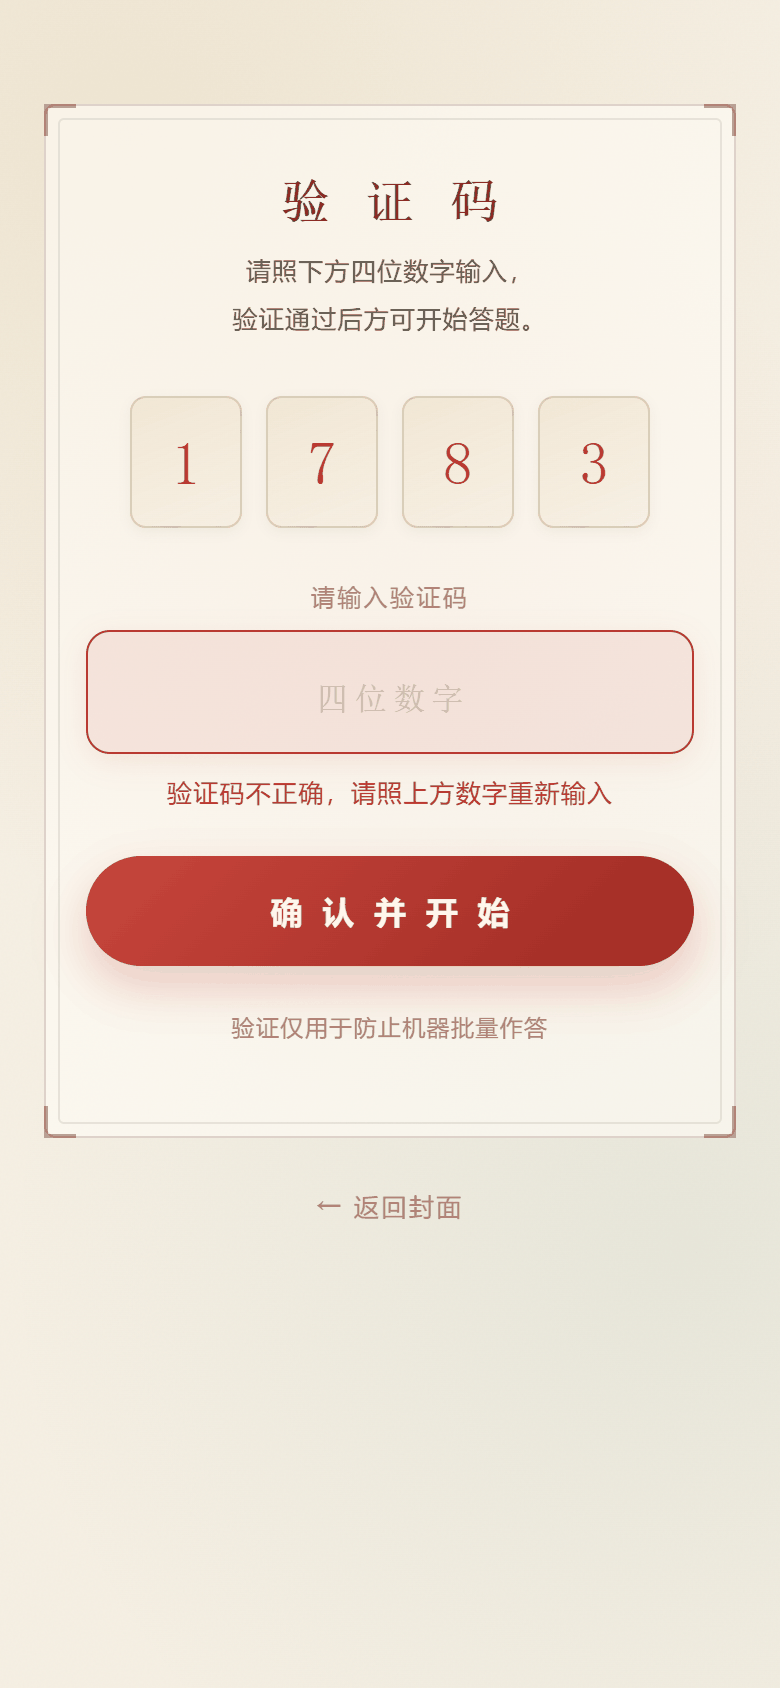
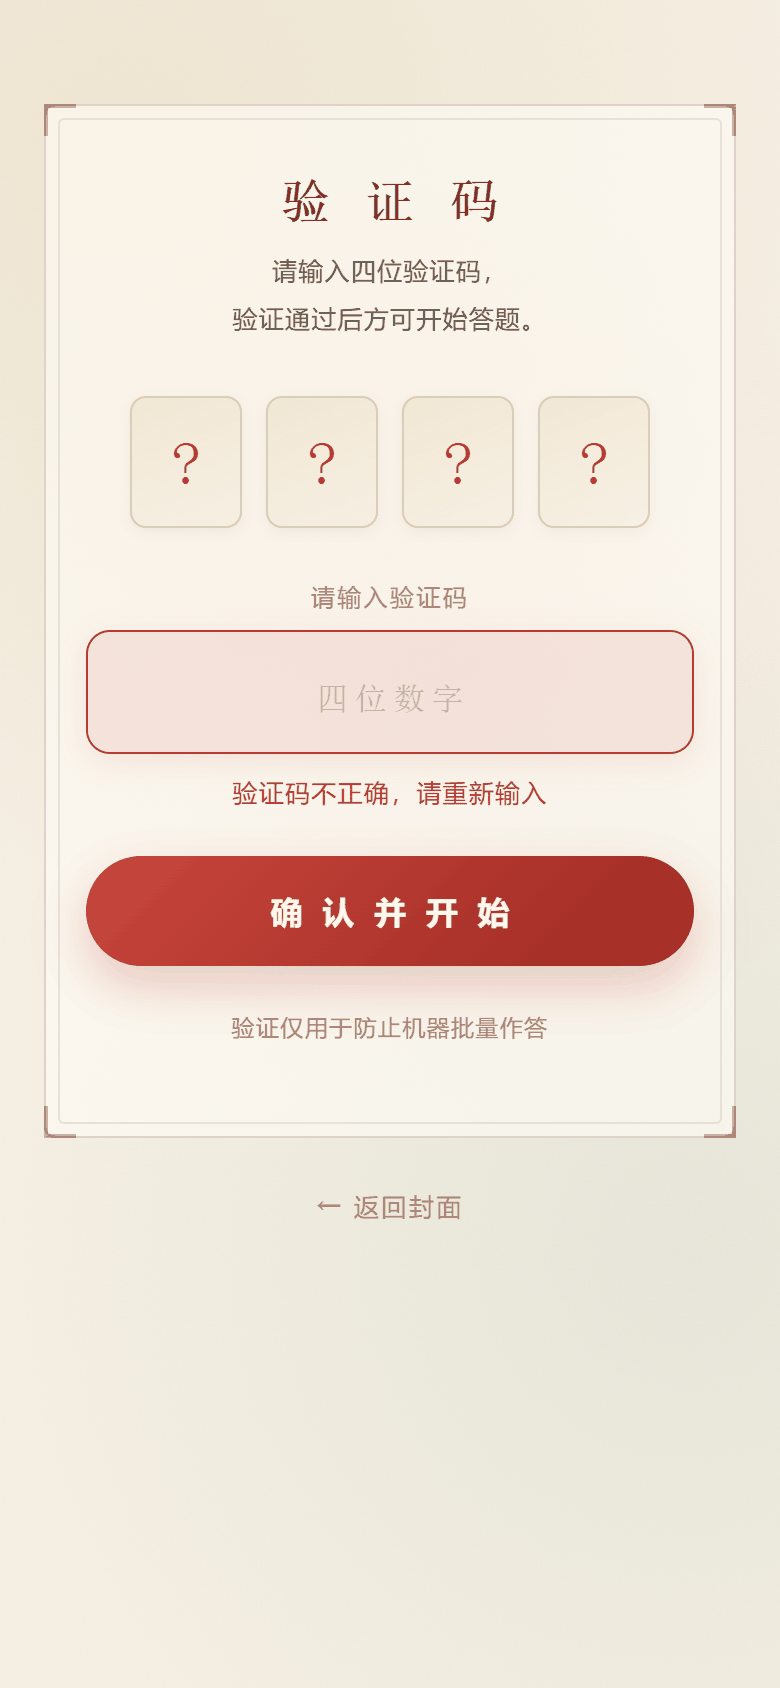
refactor: 移除历史答题记录模块 · 验证码不再显示在页面上
- 删除结果页「我的历史答题记录」区块、配套 CSS、HISTORY 存档数据
  与 renderHistory/paintHistory/makeRecord 等全部逻辑
  （index.html 68.6KB → 62.6KB，el() 引用无悬空）
- 验证码改为不展示：四位数字格只渲染 "?" 占位引导，
  真值仅存在于 JS 常量 CAPTCHA_CODE，页面可见文本中不再出现
- 同步修正错误提示文案（去掉"照上方数字"）与副标题
- README 与预览图更新（删除历史记录相关截图，新增结果页下半部分）

diff --git a/index.html b/index.html
@@ -393,41 +393,6 @@ body{
   margin-top:20px;text-align:center;font-size:11.5px;color:var(--ink3);
   letter-spacing:.06em;line-height:1.9;
 }
-
-/* ============ 历史答题记录 ============ */
-.hist-list{display:flex;flex-direction:column;gap:0;}
-.hist-row{
-  display:flex;align-items:center;gap:12px;
-  padding:12px 2px;border-bottom:1px dashed var(--line);
-  animation:fadeIn .4s ease both;
-}
-.hist-row:last-child{border-bottom:0;}
-.hist-seal{
-  flex:0 0 34px;height:34px;border-radius:50%;
-  display:grid;place-items:center;
-  font-family:var(--serif);font-size:15px;color:#FFF6EC;
-  background:linear-gradient(148deg,#C8463C,#9E2A23);
-  box-shadow:0 3px 8px rgba(185,58,50,.22);
-}
-.hist-main{flex:1;min-width:0;}
-.hist-name{
-  font-family:var(--serif);font-size:14px;letter-spacing:.08em;
-  color:var(--ink);margin:0 0 3px;
-}
-.hist-metas{font-size:11px;color:var(--ink3);letter-spacing:.04em;}
-.hist-metas i{font-style:normal;margin:0 5px;color:var(--gold);}
-.hist-end{text-align:right;flex:0 0 auto;}
-.hist-score{
-  font-family:var(--serif);font-size:16px;color:var(--cinnabar);
-  letter-spacing:.02em;line-height:1.2;
-}
-.hist-score em{font-style:normal;font-size:10.5px;color:var(--ink3);margin-left:1px;}
-.hist-q{font-size:10.5px;color:var(--ink3);letter-spacing:.04em;margin-top:3px;}
-.hist-note{
-  font-size:11px;color:var(--ink3);letter-spacing:.06em;
-  text-align:center;line-height:1.9;margin:14px 0 0;
-}
-.hist-note b{color:var(--ink2);font-weight:600;}
 </style>
 </head>
 <body data-page-node-id="nyvHgpkdjwDCacv7ujUnRW">
@@ -463,7 +428,7 @@ body{
       <span class="corner tl" data-page-node-id="CapTn1AbCdEfGhIjKlMnOp"></span><span class="corner tr" data-page-node-id="CapTn2AbCdEfGhIjKlMnOp"></span>
       <span class="corner bl" data-page-node-id="CapTn3AbCdEfGhIjKlMnOp"></span><span class="corner br" data-page-node-id="CapTn4AbCdEfGhIjKlMnOp"></span>
       <h2 class="cap-title" data-page-node-id="CapTtl5AbCdEfGhIjKlMnO">验 证 码</h2>
-      <p class="cap-sub" data-page-node-id="CapSub6AbCdEfGhIjKlMnO">请照下方四位数字输入，<br data-page-node-id="CapBr7AbCdEfGhIjKlMnOp">验证通过后方可开始答题。</p>
+      <p class="cap-sub" data-page-node-id="CapSub6AbCdEfGhIjKlMnO">请输入四位验证码，<br data-page-node-id="CapBr7AbCdEfGhIjKlMnOp">验证通过后方可开始答题。</p>
 
       <div class="cap-code" id="capCode" data-page-node-id="CapCod8AbCdEfGhIjKlMnO"></div>
 
@@ -552,14 +517,6 @@ body{
           <div class="ct" id="rCt" data-page-node-id="pbhs9zFnnKHWtMUG7CzBbv"></div>
         </div>
       </div>
-    </div>
-
-    <div class="sect" data-page-node-id="HisSect0AbCdEfGhIjKlM">
-      <div class="sect-t" data-page-node-id="HisTtl1AbCdEfGhIjKlMnO">我的历史答题记录<em id="rHistoryTag" data-page-node-id="HisEm2AbCdEfGhIjKlMnO">最近 8 次</em></div>
-      <div class="card" data-page-node-id="HisCard3AbCdEfGhIjKlMn">
-        <div class="hist-list" id="rHistory" data-page-node-id="HisLst4AbCdEfGhIjKlMn"></div>
-      </div>
-      <p class="hist-note" id="rHistoryNote" data-page-node-id="HisNte5AbCdEfGhIjKlMn"></p>
     </div>
 
     <div class="res-actions" data-page-node-id="7Nl28uRdM1F6jmAXZtE8Vw">
@@ -1148,88 +1105,6 @@ function showResult(){
     '他的活法你几乎一样都不占——这不代表谁更好，只说明你天生缺一块他那样的拼图。身边若有一个"'+far.name+'"，你的人生会稳很多。';
 
   goto('screen-result');
-
-  renderHistory(f, pct);
-}
-
-/* ==========================================================
-   七之二、历史答题记录
-   存档数据与「本次成绩」结构一致：
-   { t:时间, n:题目数量, s:契合度得分, f:人物对象 }
-   ========================================================== */
-const HISTORY = [
-  { t:'2026-09-11 10:32', n:16, s:94, f:{char:'李', name:'李白',   dynasty:'唐',  title:'诗仙'} },
-  { t:'2026-09-10 21:47', n:16, s:91, f:{char:'苏', name:'苏轼',   dynasty:'宋',  title:'东坡居士'} },
-  { t:'2026-09-09 19:05', n:16, s:89, f:{char:'诸', name:'诸葛亮', dynasty:'三国', title:'卧龙'} },
-  { t:'2026-09-08 22:18', n:16, s:93, f:{char:'陶', name:'陶渊明', dynasty:'东晋', title:'五柳先生'} },
-  { t:'2026-09-06 15:44', n:16, s:87, f:{char:'王', name:'王阳明', dynasty:'明',  title:'心学宗师'} },
-  { t:'2026-09-04 09:26', n:16, s:90, f:{char:'曹', name:'曹操',   dynasty:'三国', title:'魏武帝'} },
-  { t:'2026-09-02 20:59', n:16, s:85, f:{char:'徐', name:'徐霞客', dynasty:'明',  title:'游圣'} },
-  { t:'2026-08-30 14:12', n:16, s:92, f:{char:'庄', name:'庄子',   dynasty:'战国', title:'南华真人'} },
-  { t:'2026-08-27 11:03', n:16, s:88, f:{char:'李', name:'李清照', dynasty:'宋',  title:'易安居士'} },
-  { t:'2026-08-24 20:31', n:16, s:90, f:{char:'杜', name:'杜甫',   dynasty:'唐',  title:'诗圣'} },
-  { t:'2026-08-21 16:08', n:16, s:86, f:{char:'武', name:'武则天', dynasty:'唐',  title:'则天大圣皇帝'} }
-];
-
-// 把某次成绩压成一条记录（字段与 HISTORY 一致）
-function makeRecord(f, pct, when){
-  const d = when || new Date();
-  const p2 = x => String(x).padStart(2,'0');
-  return {
-    t: d.getFullYear()+'-'+p2(d.getMonth()+1)+'-'+p2(d.getDate())+
-       ' '+p2(d.getHours())+':'+p2(d.getMinutes()),
-    n: QUESTIONS.length,
-    s: pct,
-    f: {char:f.char, name:f.name, dynasty:f.dynasty, title:f.title}
-  };
-}
-
-// 每屏渲染多少条（翻页用）
-const HIST_PAGE = 8;
-let histShown = HIST_PAGE;
-
-function renderHistory(f, pct){
-  // 每次进入结果页，本次成绩插到最前（同一分钟内的重复记录合并，避免刷分堆叠）
-  const cur = makeRecord(f, pct);
-  const same = HISTORY[0] && HISTORY[0].f.name === cur.f.name &&
-               HISTORY[0].t.slice(0,16) === cur.t.slice(0,16);
-  if(!same) HISTORY.unshift(cur);
-  histShown = HIST_PAGE;
-
-  paintHistory();
-
-  const box = el('rHistoryNote');
-  if(HISTORY.length > HIST_PAGE){
-    box.innerHTML = '共 <b>'+HISTORY.length+'</b> 次作答 · '+
-      '<span class="hist-more" id="histMore">查看更早的记录 ↓</span>';
-    el('histMore').addEventListener('click',()=>{
-      histShown = HISTORY.length;
-      paintHistory();
-      box.innerHTML = '共 <b>'+HISTORY.length+'</b> 次作答 · 已显示全部记录';
-    });
-  } else {
-    box.innerHTML = '共 <b>'+HISTORY.length+'</b> 次作答 · 记录仅保存在本机浏览器';
-  }
-}
-
-function paintHistory(){
-  const rows = HISTORY.slice(0, histShown).map((h,i)=>
-    '<div class="hist-row" style="animation-delay:'+(i*45)+'ms">'+
-      '<div class="hist-seal">'+h.f.char+'</div>'+
-      '<div class="hist-main">'+
-        '<p class="hist-name">'+h.f.name+'</p>'+
-        '<div class="hist-metas">'+h.t+'<i>·</i>'+h.f.dynasty+'<i>·</i>'+h.f.title+'</div>'+
-      '</div>'+
-      '<div class="hist-end">'+
-        '<div class="hist-score">'+h.s+'<em>%</em></div>'+
-        '<div class="hist-q">'+h.n+' 题</div>'+
-      '</div>'+
-    '</div>'
-  ).join('');
-  el('rHistory').innerHTML = rows || '<p class="hist-note">还没有记录，这一条就是你的第一条。</p>';
-  // 小标签跟随展开状态：只显示了一部分时写「最近 N 次」，全部展示后写次数
-  el('rHistoryTag').textContent = histShown < HISTORY.length
-    ? '最近 '+histShown+' 次' : '共 '+HISTORY.length+' 次';
 }
 
 /* ==========================================================
@@ -1291,10 +1166,10 @@ function goto(target){
   window.scrollTo(0,0);
 }
 
-// 渲染验证码数字格（逐个错峰入场）
+// 渲染四个占位格：只作视觉引导，不暴露真实验证码
 function renderCaptcha(){
-  el('capCode').innerHTML = CAPTCHA_CODE.split('').map((c,i)=>
-    '<i style="animation-delay:'+(i*80)+'ms">'+c+'</i>'
+  el('capCode').innerHTML = [0,1,2,3].map((_,i)=>
+    '<i style="animation-delay:'+(i*80)+'ms">?</i>'
   ).join('');
 }
 
@@ -1332,7 +1207,7 @@ function submitCaptcha(){
     return;
   }
   if(v !== CAPTCHA_CODE){
-    showCapError('验证码不正确，请照上方数字重新输入');
+    showCapError('验证码不正确，请重新输入');
     inp.value = '';
     inp.focus();
     return;

diff --git a/README.md b/README.md
@@ -15,11 +15,11 @@
 | <img src="screenshots/01-cover.png" width="170"> | <img src="screenshots/02-captcha.png" width="170"> | <img src="screenshots/04-quiz.png" width="170"> | <img src="screenshots/06-result-top.png" width="170"> |
 
 <details>
-<summary>展开查看错误提示、选中动效与历史记录</summary>
+<summary>展开查看验证码错误提示、选项选中动效与结果页下半部分</summary>
 
-| 验证码错误 | 选项选中动效 | 历史答题记录 |
+| 验证码错误 | 选项选中动效 | 结果页下半部分 |
 |:---:|:---:|:---:|
-| <img src="screenshots/03-captcha-error.png" width="220"> | <img src="screenshots/05-option-picked.png" width="220"> | <img src="screenshots/08-history-all.png" width="220"> |
+| <img src="screenshots/03-captcha-error.png" width="220"> | <img src="screenshots/05-option-picked.png" width="220"> | <img src="screenshots/07-result-bottom.png" width="220"> |
 
 </details>
 
@@ -30,9 +30,8 @@
 | 功能 | 说明 |
 |---|---|
 | **16 道两难选择** | 每题 4 个选项，无对错，凭第一反应作答；选项标签 64/64 无重复 |
-| **验证码闸门** | 固定码 `1783`，四位数字分格展示；错误抖动提示并阻止进入，通过后方可答题 |
+| **验证码闸门** | 固定码（不显示在页面上，仅站点所有者知晓）；四位数字分格仅作占位引导，错误抖动提示并阻止进入，通过后方可答题 |
 | **选项点击动效** | 选中项朱砂描边 + 抬起 + 一次性回弹，未选项错峰淡出，反馈清晰不阻塞作答 |
-| **历史答题记录** | 结果页展示最近 8 次（可展开全部），含时间、人物、朝代称号、题目数量、契合度 |
 | **四层选择回显** | 每句评价都能倒推到原始作答，不是泛泛的性格描述 |
 | **一键分享文案** | 生成含结果、人格底色、选择轨迹的纯文本，方便粘贴 |
 | **零外部请求** | 无 CDN、无字体外链、无图片文件，雷达图/印章全部内联 SVG / CSS |
@@ -128,7 +127,7 @@
 
 ## 质量保障
 
-- **12 项真实浏览器端到端断言**：用 puppeteer-core 驱动本机 Chrome，覆盖「开始 → 验证码（空/非数字/位数不足/错误码/正确码）→ 逐题作答 → 结果页 → 展开历史 → 再测一次 → 返回封面 → 回车提交」完整链路，**0 JS 错误**。
+- **端到端断言**：用 puppeteer-core 驱动本机 Chrome，覆盖「开始 → 验证码（空/非数字/位数不足/错误码/正确码）→ 逐题作答 → 结果页 → 再测一次 → 返回封面 → 回车提交」完整链路，并断言**验证码不出现在页面可见文本中**，**0 JS 错误**。
 - **算法复核**：200 次随机重启的坐标上升法验证 16 题下 11 位古人全部可达且自洽。
 - **真机截图目检**（390×844 Chrome 移动端仿真）：
   > 这一步抓到一个纯逻辑测试**测不出来**的真 bug——验证码通过后未收起封面，导致封面与答题屏叠加、选项点不动。原因是各屏幕的显隐散落在多个函数里，必然漏一个。修法是抽出统一的 `goto(id)` 切屏函数，只给目标屏加 `active`。**肉眼验收不可省。**
@@ -152,7 +151,7 @@ python -m http.server 8000
 # 访问 http://localhost:8000
 ```
 
-> 验证码固定为 `1783`，仅用于演示"提交前校验"这一交互，不具备真实防机器能力。
+> 验证码为固定值，**不显示在页面上**，仅站点所有者知晓，源码中定义于 `CAPTCHA_CODE`。仅用于演示"提交前校验"这一交互，不具备真实防机器能力。
 
 ---
 
@@ -160,7 +159,7 @@ python -m http.server 8000
 
 ```
 guofeng-identity-h5/
-├── index.html          # 完整应用（HTML + CSS + JS 全部内联，约 67 KB）
+├── index.html          # 完整应用（HTML + CSS + JS 全部内联，约 61 KB）
 ├── screenshots/        # README 展示用预览图
 └── README.md
 ```
